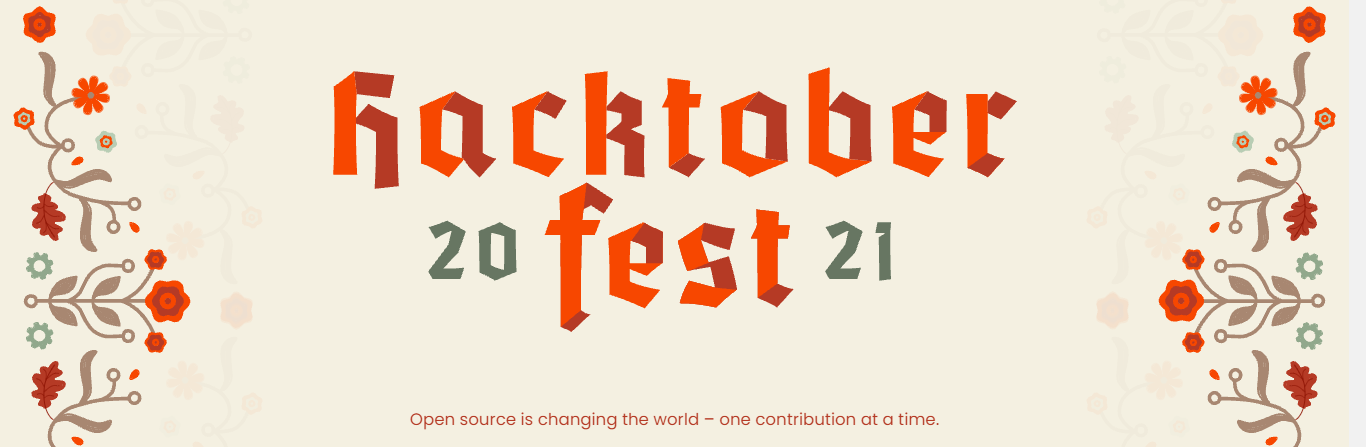
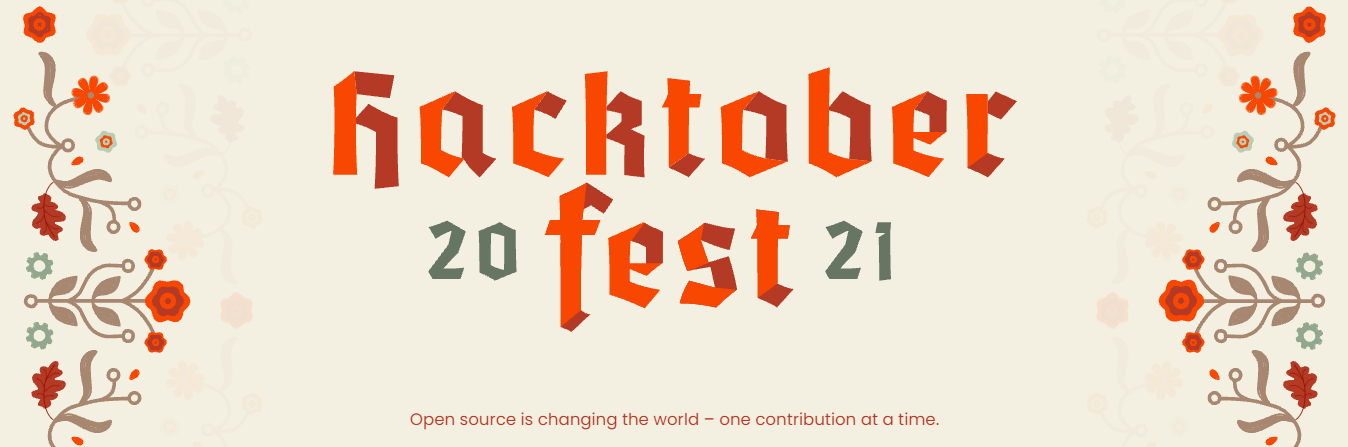
Fixed Header top container

diff --git a/assets/bootstrap/css/bootstrap.min.css b/assets/bootstrap/css/bootstrap.min.css
@@ -290,7 +290,9 @@ figure {
 img,
 svg {
   vertical-align: middle;
+  width: 98.75vw;
 }
+
 table {
   caption-side: bottom;
   border-collapse: collapse;
